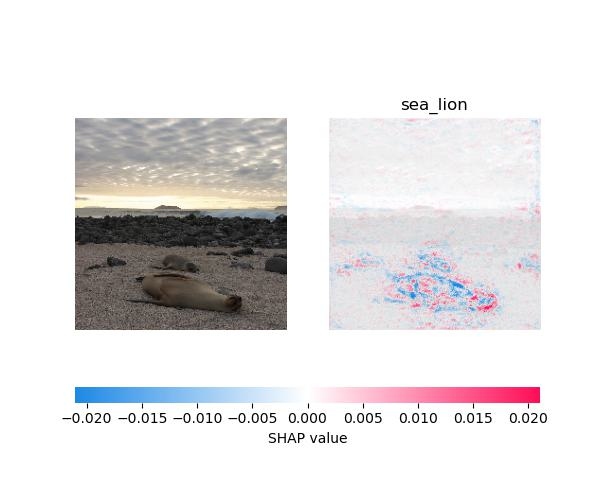
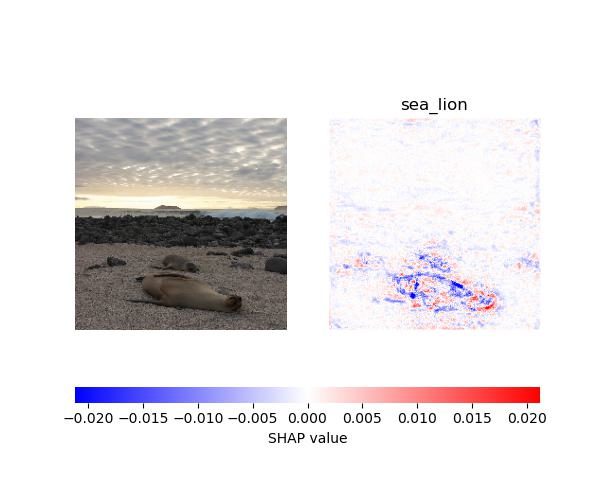
Ready for main

Changed region(s): [[0.54, 0.42, 0.9, 0.66], [0.57, 0.75, 0.93, 0.87], [0.12, 0.75, 0.45, 0.87]]

diff --git a/methods/SHAP.py b/methods/SHAP.py
@@ -14,5 +14,5 @@ def explain(model, img, org_img, files, labels, model_str):
     labels = np.vectorize(lambda x: labels[str(x)][1])(indexes)
     shap_values = [np.swapaxes(np.swapaxes(s, 2, 3), 1, -1) for s in shap_values]
 
-    shap.image_plot(shap_values=shap_values, pixel_values=org_img.reshape(1, 224, 224, 3)/255, labels=labels, show=False)
+    shap.image_plot(shap_values=shap_values, pixel_values=org_img.reshape(1, 224, 224, 3)/255, cmap='bwr', labels=labels, show=False)
     plt.savefig("results/shap/" + name + ".jpg")

diff --git a/main.py b/main.py
@@ -10,7 +10,7 @@ import cv2
 
 def main():
     parser = argparse.ArgumentParser(description='run explain methods')
-    parser.add_argument('--VGG', type=bool, default=False)
+    parser.add_argument('--VGG', type=bool, default=True)
     parser.add_argument('--AlexNet', type=bool, default=True)
     parser.add_argument('--LRP', type=bool, default=False)
     parser.add_argument('--gradCam', type=bool, default=False)
